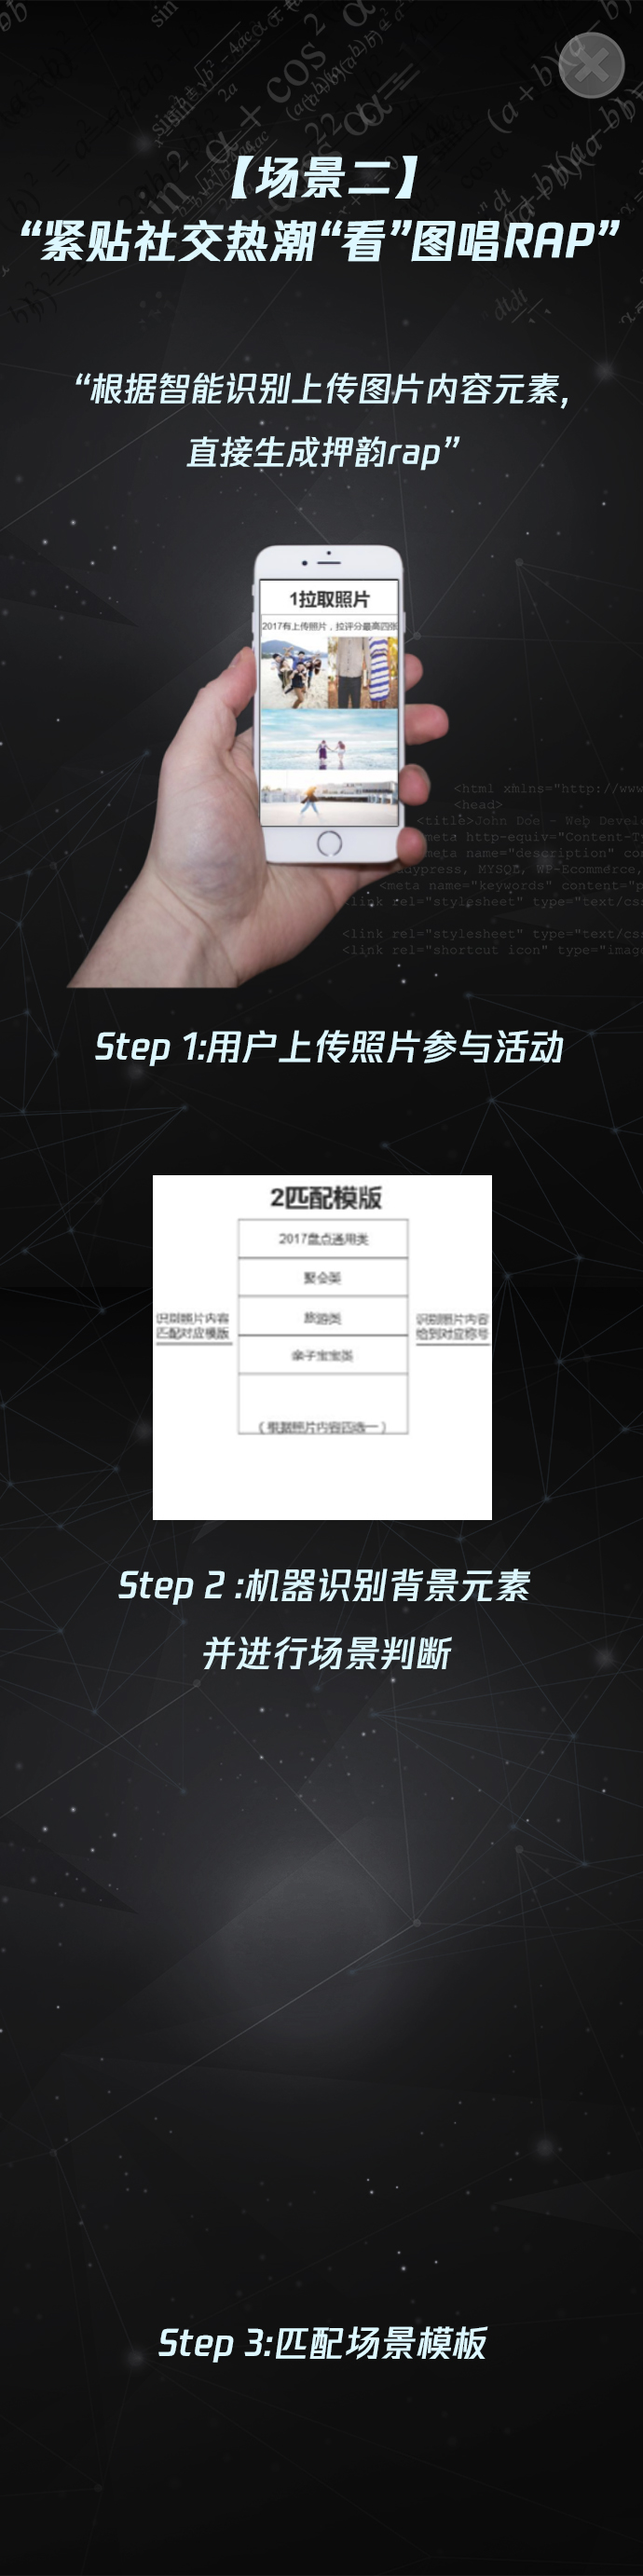
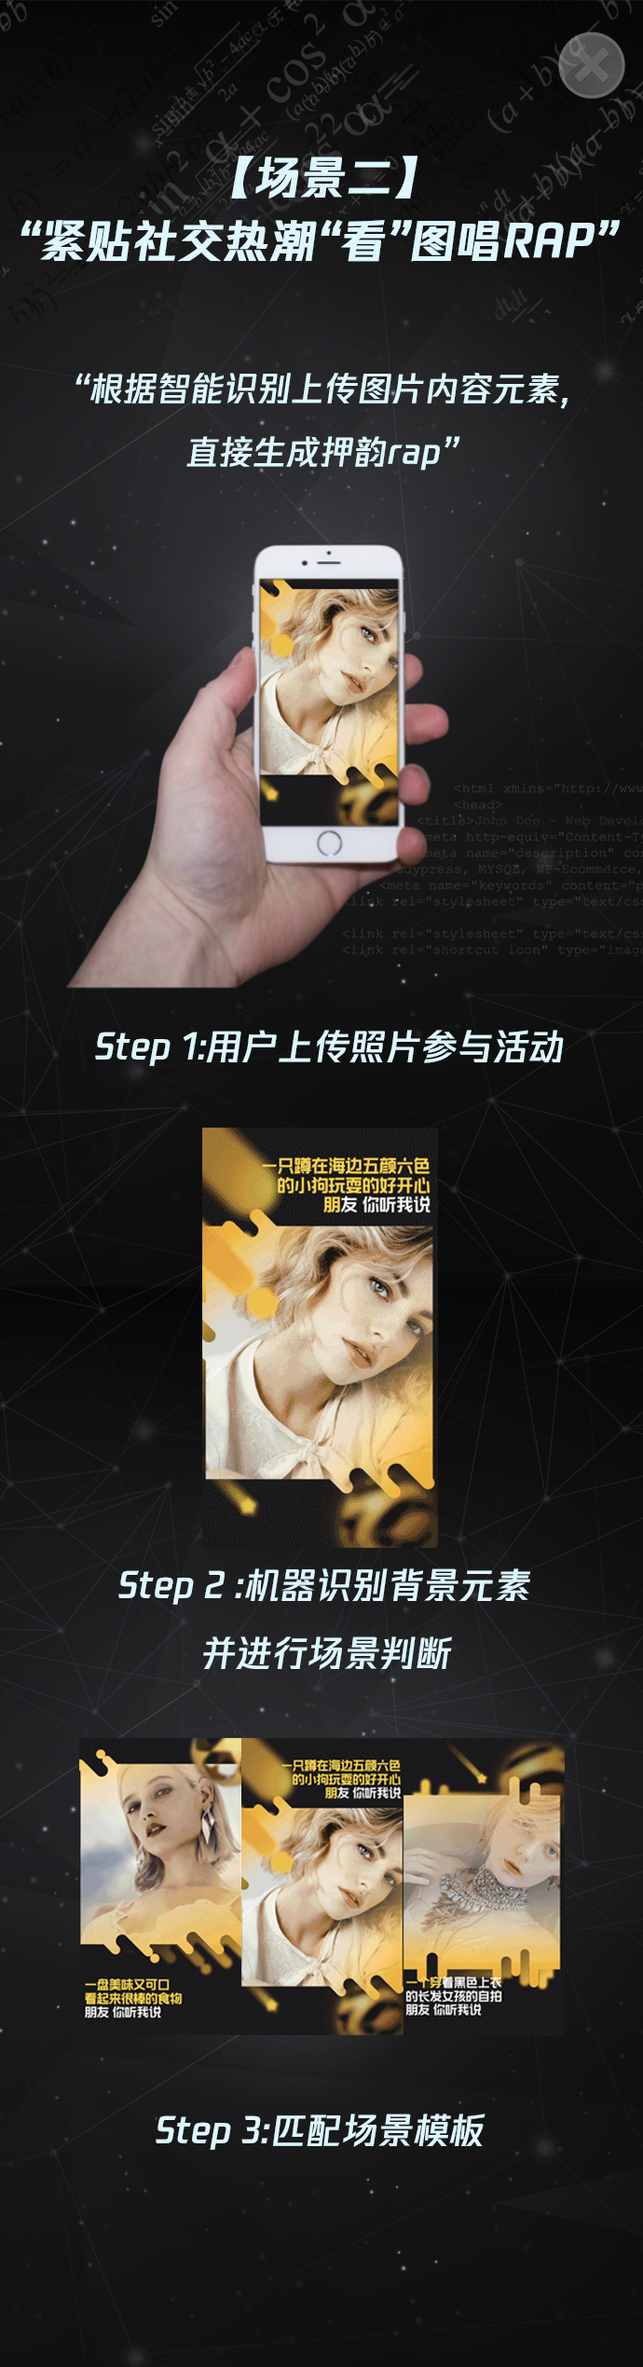
H5Web

Changed region(s): [[0.0304, 0.0, 1.0, 0.9331], [0.1826, 0.9953, 0.2435, 1.0]]

diff --git a/H5web/tencentAIDisplay/index.html b/H5web/tencentAIDisplay/index.html
@@ -8,7 +8,7 @@
 <meta http-equiv="Pragma" content="no-cache">
 <link rel="stylesheet" type="text/css" href="css/style.css?ver=1.01">
 <link rel="stylesheet" type="text/css" href="css/swiper.min.css">
-<link rel="stylesheet" type="text/css" href="css/main.css?ver=1.053">
+<link rel="stylesheet" type="text/css" href="css/main.css?ver=1.054">
 <title>腾讯优图AI实验室</title>
 </head>
 <body>
@@ -322,7 +322,14 @@
 							<div class="ui-arrow-loop">
 								<img src="" data-src="images/arrow.png">
 							</div>
-							<div class="page5-like-box" data-id="10"></div>
+							<div class="page5-like-box" data-id="10">
+								<div class="cd-loop">
+									<img src="" data-src="images/cd.png">
+								</div>
+								<div class="zhen">
+									<img src="" data-src="images/zhen.png">
+								</div>
+							</div>
 						</div>
 					</div>
 				</div>

diff --git a/H5web/tencentAIDisplay/css/main.css b/H5web/tencentAIDisplay/css/main.css
@@ -517,6 +517,25 @@ img{
 	height: 100%;
 }
 
+.cd-loop{
+	position: absolute;
+    width: 2.5rem;
+    height: 2.5rem;
+    left: 0.76rem;
+    top: 1.74rem;
+    -webkit-animation: rotate-loop 15s linear infinite;
+    animation: rotate-loop 15s linear infinite;
+}
+
+.zhen{
+	position: absolute;
+    z-index: 2;
+    width: 0.7rem;
+    right: 0.43rem;
+    top: 1.74rem;
+    height: auto;
+}
+
 .loading{
 	position: fixed;
 	left: 0rem;
